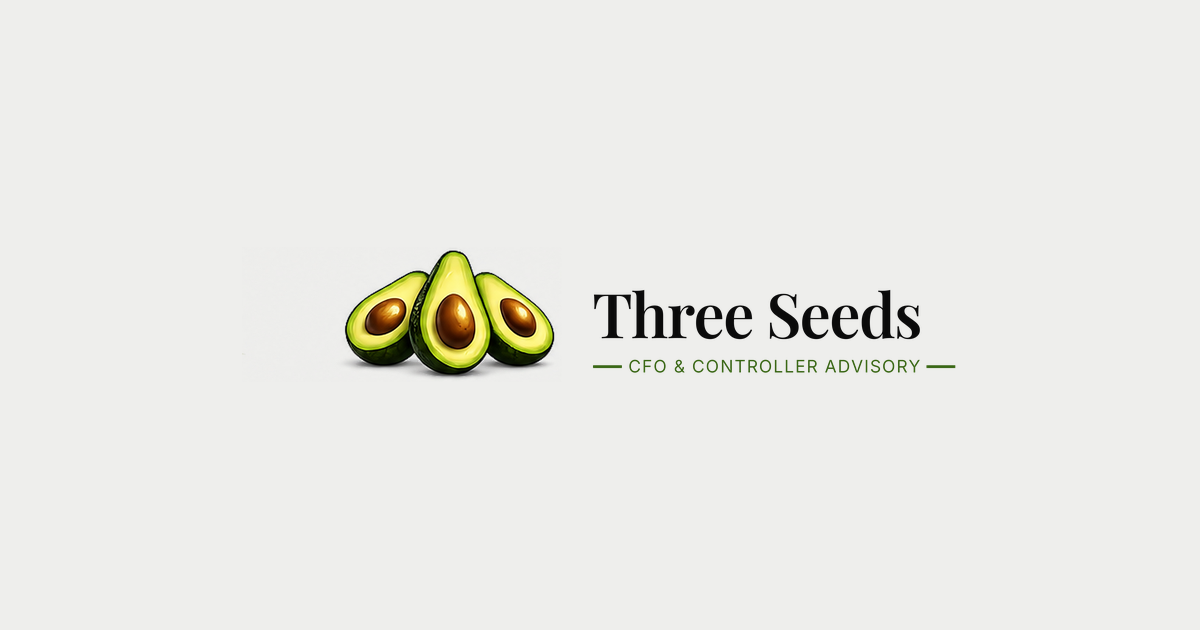
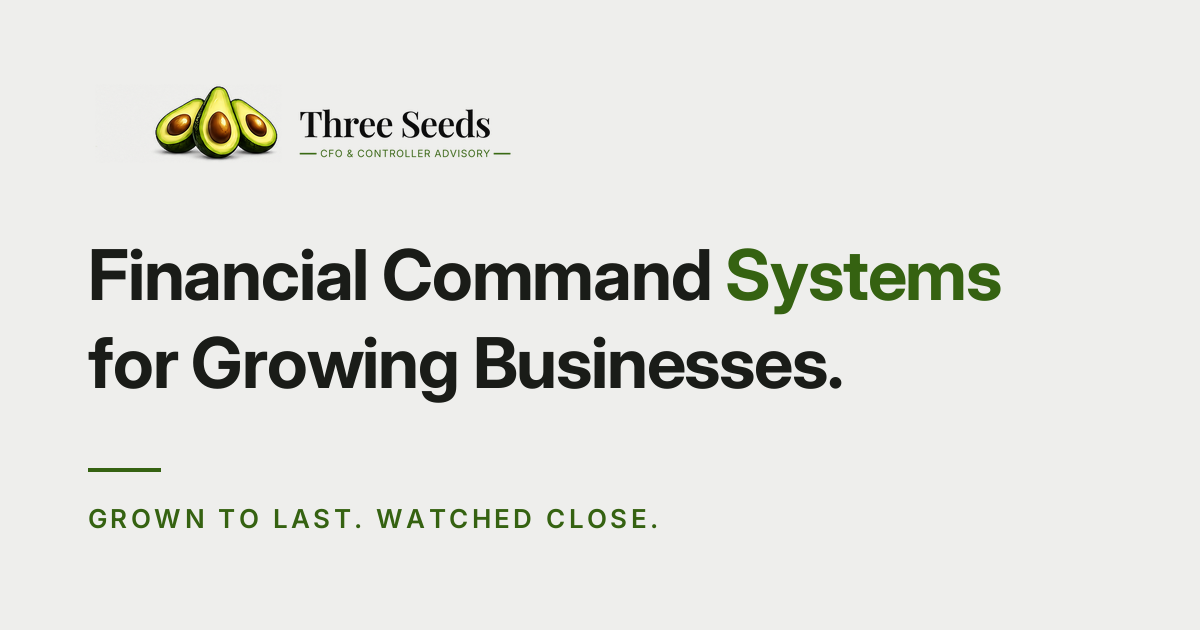
Redesign the social share card
The old og.png was the logo alone on grey, which read as empty in an
iMessage bubble and said nothing about the business. The card now carries
the home hero headline, the lockup, and the tagline, sized to stay legible
at the ~300px width a message preview actually renders at.

Image URLs carry ?v=2 so scrapers refetch instead of serving the cached
old card. Also adds og:site_name, og:image:alt, and the twitter title and
description tags that were missing.

diff --git a/index.html b/index.html
@@ -10,12 +10,16 @@
     <meta property="og:title" content="Three Seeds" />
     <meta property="og:description" content="Three Seeds. Financial Command Systems for owner-operated businesses. Part Time CFO, controller, and bookkeeping support that helps you see what's coming, before it lands." />
     <meta property="og:url" content="https://www.threeseeds.io/" />
-    <meta property="og:image" content="https://www.threeseeds.io/og.png" />
+    <meta property="og:image" content="https://www.threeseeds.io/og.png?v=2" />
     <meta property="og:image:width" content="1200" />
     <meta property="og:image:height" content="630" />
     <meta property="og:type" content="website" />
+    <meta property="og:site_name" content="Three Seeds" />
+    <meta property="og:image:alt" content="Three Seeds. Financial Command Systems for growing businesses." />
     <meta name="twitter:card" content="summary_large_image" />
-    <meta name="twitter:image" content="https://www.threeseeds.io/og.png" />
+    <meta name="twitter:title" content="Three Seeds" />
+    <meta name="twitter:description" content="Financial Command Systems for owner-operated businesses. Part Time CFO, controller, and bookkeeping support that helps you see what's coming, before it lands." />
+    <meta name="twitter:image" content="https://www.threeseeds.io/og.png?v=2" />
   </head>
   <body>
     <div id="root"></div>
